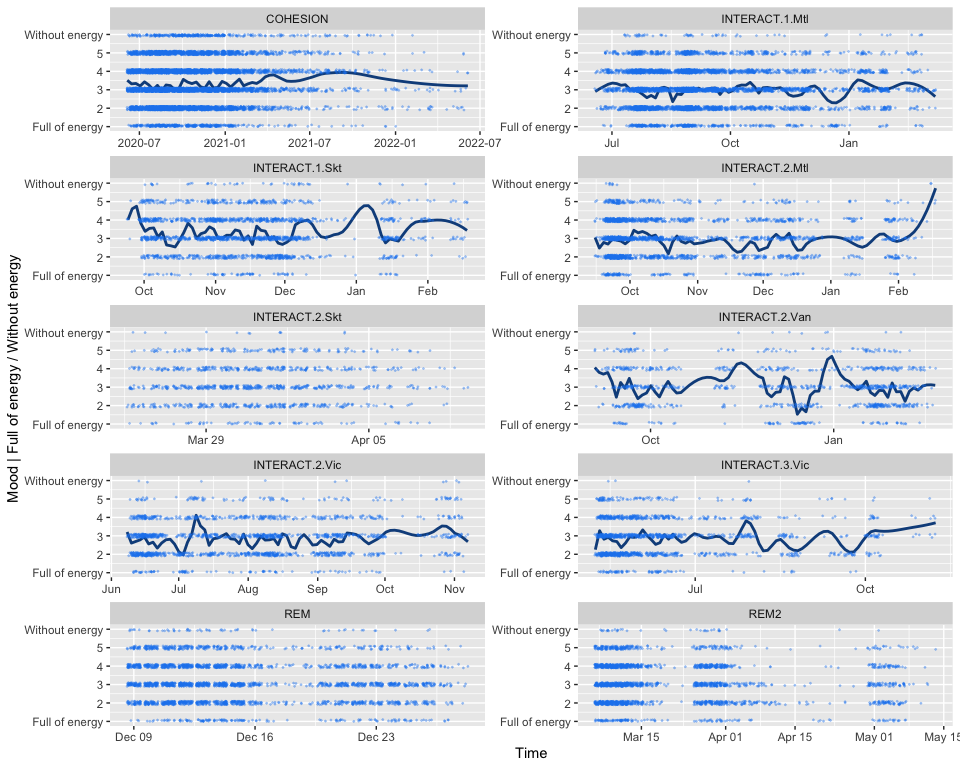
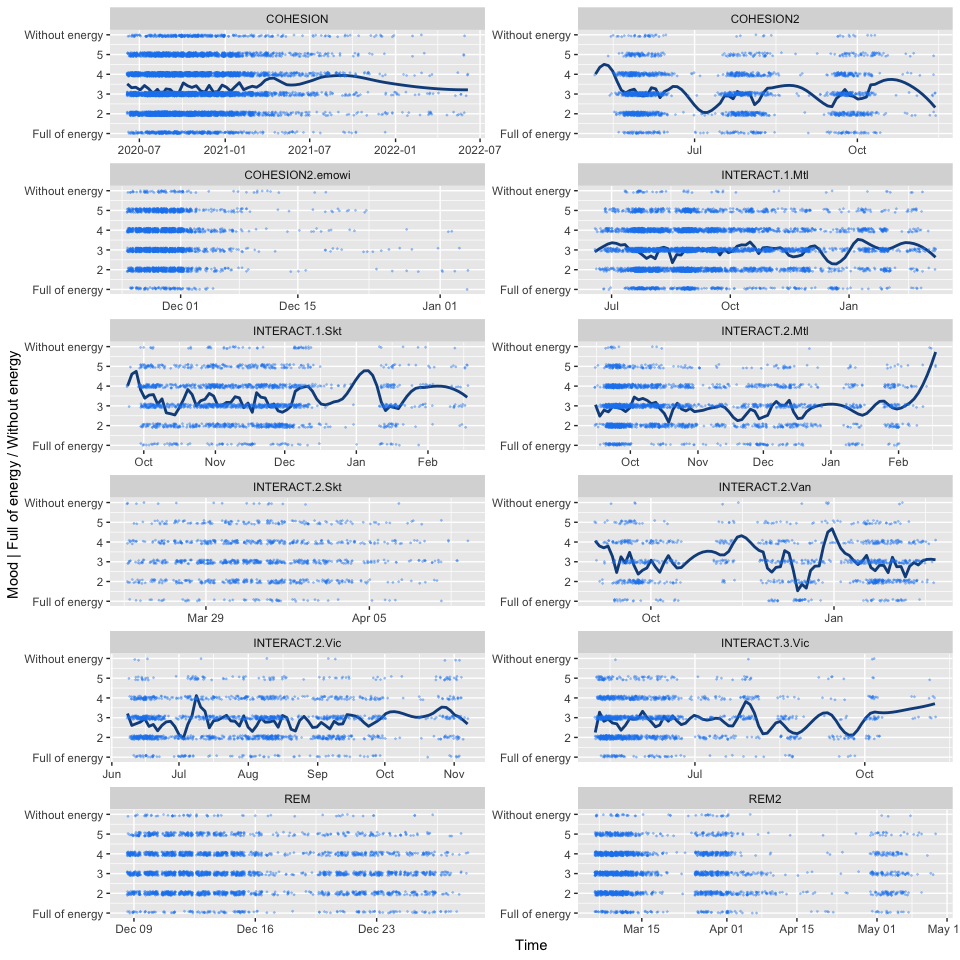
Update to EMA primer, commit #21cc594

diff --git a/EMA_preanalyses.html b/EMA_preanalyses.html
@@ -260,7 +260,7 @@ div.tocify {
 
 <h1 class="title toc-ignore">EMA | mood pre-analysis</h1>
 <h4 class="author">B. Thierry, Spherelab</h4>
-<h4 class="date">09 January, 2023</h4>
+<h4 class="date">13 January, 2023</h4>
 
 </div>
 
@@ -313,6 +313,36 @@ cohesion_ema &lt;- read_csv(&quot;data/COHESION/cohesion_ema.csv&quot;, show_col
   transmute(study = &#39;COHESION&#39;,
             pid = as.character(participant_id),
             locale = locale,
+            scheduled_time = scheduled_time,
+            issued_time = issued_time,
+            response_time = response_time,
+            latency = latency,
+            duration = duration,
+            lat = lat,
+            lng = lng,
+            across(matches(&#39;mood_(a|b|c|d|e|f|who)$&#39;), as.factor)) %&gt;%
+  mutate(across(matches(&#39;mood_(a|b|c|d|e|f|who)$&#39;), ~na_if(., -7))) %&gt;%
+  drop_na(matches(&#39;mood_(a|b|c|d|e|f|who)$&#39;))
+
+# COHESION wave 2
+cohesion_ema2 &lt;- read_csv(&quot;data/COHESION/cohesion_ema_w2.csv&quot;, show_col_types = FALSE) %&gt;%
+  transmute(study = &#39;COHESION2&#39;,
+            pid = as.character(participant_id),
+            scheduled_time = scheduled_time,
+            issued_time = issued_time,
+            response_time = response_time,
+            latency = latency,
+            duration = duration,
+            lat = lat,
+            lng = lng,
+            across(matches(&#39;mood_(a|b|c|d|e|f|who)$&#39;), as.factor)) %&gt;%
+  mutate(across(matches(&#39;mood_(a|b|c|d|e|f|who)$&#39;), ~na_if(., -7))) %&gt;%
+  drop_na(matches(&#39;mood_(a|b|c|d|e|f|who)$&#39;))
+
+# COHESION wave 2 EMOWI
+cohesion_ema2e &lt;- read_csv(&quot;data/COHESION/cohesion_ema_w2_emowi.csv&quot;, show_col_types = FALSE) %&gt;%
+  transmute(study = &#39;COHESION2.emowi&#39;,
+            pid = as.character(participant_id),
             scheduled_time = scheduled_time,
             issued_time = issued_time,
             response_time = response_time,
@@ -553,6 +583,8 @@ interact_vic3 &lt;- read_csv(&quot;data/INTERACT/ema_w3_survey_vic_1655.csv&quot
 ## • `` -&gt; `...10`</code></pre>
 <p>Merge and clean…</p>
 <pre class="r"><code>ema_full &lt;- bind_rows(cohesion_ema,
+                      cohesion_ema2,
+                      cohesion_ema2e,
                       rem_ema,
                       rem_ema2,
                       interact_mtl1, interact_skt1,
@@ -571,7 +603,7 @@ tz_lut &lt;- ema_full %&gt;%
   summarise(n = n(),
             mean_lat = mean(lat, na.rm = T),
             mean_lng = mean(lng, na.rm = T)) %&gt;%
-  inner_join(data.frame(tz_code = c(&quot;ADT&quot;, &quot;AEDT&quot;, &quot;AEST&quot;, &quot;AST&quot;, &quot;CDT&quot;, &quot;CEST&quot;, &quot;CET&quot;, &quot;CST&quot;, &quot;EDT&quot;, &quot;EET&quot;, &quot;EST&quot;, &quot;MDT&quot;, &quot;MST&quot;, &quot;NDT&quot;, &quot;NST&quot;, &quot;PDT&quot;, &quot;PST&quot;),
+  inner_join(data.frame(tz_code = c(&quot;ADT&quot;, &quot;AEDT&quot;, &quot;AEST&quot;, &quot;AST&quot;, &quot;CDT&quot;, &quot;CEST&quot;, &quot;CET&quot;, &quot;CST&quot;, &quot;EDT&quot;, &quot;EET&quot;, &quot;EST&quot;, &quot;GMT&quot;, &quot;IST&quot;, &quot;MDT&quot;, &quot;MST&quot;, &quot;NDT&quot;, &quot;NST&quot;, &quot;PDT&quot;, &quot;PST&quot;),
                         tz_name = c(&quot;Canada/Atlantic&quot;, # ADT
                                     &quot;Australia/Victoria&quot;, # AEDT
                                     &quot;Australia/Victoria&quot;, # AEST
@@ -583,6 +615,8 @@ tz_lut &lt;- ema_full %&gt;%
                                     &quot;Canada/Eastern&quot;, # EDT
                                     &quot;Europe/Athens&quot;, # EET
                                     &quot;Canada/Eastern&quot;, # EST
+                                    &quot;Greenwicth Mean Time&quot;, # GMT
+                                    &quot;Indian Standard Time&quot;, # IST
                                     &quot;Canada/Mountain&quot;, # MDT
                                     &quot;Canada/Mountain&quot;, # MST
                                     &quot;Canada/Newfoundland&quot;, # NDT
@@ -602,6 +636,8 @@ tz_lut &lt;- ema_full %&gt;%
                                     &quot;-0400&quot;, # EDT
                                     &quot;+0200&quot;, # EET
                                     &quot;-0500&quot;, # EST
+                                    &quot;-0000&quot;, # GMT
+                                    &quot;+0530&quot;, # IST
                                     &quot;-0600&quot;, # MDT
                                     &quot;-0700&quot;, # MST
                                     &quot;-0230&quot;, # NDT
@@ -623,12 +659,77 @@ ema_full &lt;- ema_full %&gt;%
          issued_time = ymd_hms(paste(substr(issued_time, 1, 10+1+8), tz_shift), tz=&quot;UTC&quot;),
          response_time = ymd_hms(paste(substr(response_time, 1, 10+1+8), tz_shift), tz=&quot;UTC&quot;)) %&gt;%
   select(!tz_shift)</code></pre>
+<pre><code>## Warning: 1 failed to parse.
+
+## Warning: 1 failed to parse.</code></pre>
 </div>
 <div id="participants-personal-data" class="section level2" number="2.2">
 <h2><span class="header-section-number">2.2</span> Participants’ personal data</h2>
 <p>Includes recoding/harmonizing the various data.</p>
 <pre class="r"><code>cohesion_lut &lt;- read_csv(&quot;data/COHESION/cohesion_ema_user.csv&quot;, show_col_types = FALSE) %&gt;%
   transmute(study = &quot;COHESION&quot;,
+            pid = as.character(participant_id),
+            prov = province,
+            postal_code = str_replace(postal_code, &quot; &quot;, &quot;&quot;),
+            age = age,
+            gender = case_when(gender == &quot;Man&quot; ~ &quot;Man&quot;,
+                               gender == &quot;Woman&quot; ~ &quot;Woman&quot;,
+                               TRUE ~ &quot;Other&quot;),
+            educ = case_when(education == &quot;Primary/Elementary School&quot; ~ &quot;Primary/Secondary School&quot;,
+                             education == &quot;Secondary School&quot; ~ &quot;Primary/Secondary School&quot;,
+                             education == &quot;Trade/Technical School or College Diploma&quot; ~ &quot;Trade/Technical School or College Diploma&quot;,
+                             education == &quot;University Degree&quot; ~ &quot;University Degree and higher&quot;,
+                             education == &quot;Graduate Degree&quot; ~ &quot;University Degree and higher&quot;,
+                             education == &quot;Post-Graduate Degree&quot; ~ &quot;University Degree and higher&quot;,
+                             TRUE ~ &quot;Other&quot;),
+            ethnic_group = case_when(ethnic_group == &quot;White&quot; ~ &quot;White&quot;,
+                                     TRUE ~ &quot;Other&quot;),
+            income = case_when(income_pre_covid == &quot;No income&quot; ~ &quot;$0 to $19,999&quot;,
+                               income_pre_covid == &quot;$1 to $9,999&quot; ~ &quot;$0 to $19,999&quot;,
+                               income_pre_covid == &quot;$10,000 to $14,999&quot; ~ &quot;$0 to $19,999&quot;,
+                               income_pre_covid == &quot;$15,000 to $19,999&quot; ~ &quot;$0 to $19,999&quot;,
+                               income_pre_covid == &quot;$20,000 to $29,999&quot; ~ &quot;$20,000 to $49,999&quot;,
+                               income_pre_covid == &quot;$30,000 to $39,999&quot; ~ &quot;$20,000 to $49,999&quot;,
+                               income_pre_covid == &quot;$40,000 to $49,999&quot; ~ &quot;$20,000 to $49,999&quot;,
+                               income_pre_covid == &quot;$50,000 to $99,999&quot; ~ &quot;$50,000 to $99,999&quot;,
+                               income_pre_covid == &quot;$100,000 to $149,999&quot; ~ &quot;$100,000 to $149,999&quot;,
+                               income_pre_covid == &quot;$150,000 to $199,999&quot; ~ &quot;$150,000 to $199,999&quot;,
+                               income_pre_covid == &quot;$200,000 or more&quot; ~ &quot;$200,000 or more&quot;,
+                               TRUE ~ &quot;I don’t know/Prefer not to answer&quot;))
+
+cohesion2_lut &lt;- read_csv(&quot;data/COHESION/cohesion_ema_user_w2.csv&quot;, show_col_types = FALSE) %&gt;%
+  transmute(study = &quot;COHESION2&quot;,
+            pid = as.character(participant_id),
+            prov = province,
+            postal_code = str_replace(postal_code, &quot; &quot;, &quot;&quot;),
+            age = age,
+            gender = case_when(gender == &quot;Man&quot; ~ &quot;Man&quot;,
+                               gender == &quot;Woman&quot; ~ &quot;Woman&quot;,
+                               TRUE ~ &quot;Other&quot;),
+            educ = case_when(education == &quot;Primary/Elementary School&quot; ~ &quot;Primary/Secondary School&quot;,
+                             education == &quot;Secondary School&quot; ~ &quot;Primary/Secondary School&quot;,
+                             education == &quot;Trade/Technical School or College Diploma&quot; ~ &quot;Trade/Technical School or College Diploma&quot;,
+                             education == &quot;University Degree&quot; ~ &quot;University Degree and higher&quot;,
+                             education == &quot;Graduate Degree&quot; ~ &quot;University Degree and higher&quot;,
+                             education == &quot;Post-Graduate Degree&quot; ~ &quot;University Degree and higher&quot;,
+                             TRUE ~ &quot;Other&quot;),
+            ethnic_group = case_when(ethnic_group == &quot;White&quot; ~ &quot;White&quot;,
+                                     TRUE ~ &quot;Other&quot;),
+            income = case_when(income_pre_covid == &quot;No income&quot; ~ &quot;$0 to $19,999&quot;,
+                               income_pre_covid == &quot;$1 to $9,999&quot; ~ &quot;$0 to $19,999&quot;,
+                               income_pre_covid == &quot;$10,000 to $14,999&quot; ~ &quot;$0 to $19,999&quot;,
+                               income_pre_covid == &quot;$15,000 to $19,999&quot; ~ &quot;$0 to $19,999&quot;,
+                               income_pre_covid == &quot;$20,000 to $29,999&quot; ~ &quot;$20,000 to $49,999&quot;,
+                               income_pre_covid == &quot;$30,000 to $39,999&quot; ~ &quot;$20,000 to $49,999&quot;,
+                               income_pre_covid == &quot;$40,000 to $49,999&quot; ~ &quot;$20,000 to $49,999&quot;,
+                               income_pre_covid == &quot;$50,000 to $99,999&quot; ~ &quot;$50,000 to $99,999&quot;,
+                               income_pre_covid == &quot;$100,000 to $149,999&quot; ~ &quot;$100,000 to $149,999&quot;,
+                               income_pre_covid == &quot;$150,000 to $199,999&quot; ~ &quot;$150,000 to $199,999&quot;,
+                               income_pre_covid == &quot;$200,000 or more&quot; ~ &quot;$200,000 or more&quot;,
+                               TRUE ~ &quot;I don’t know/Prefer not to answer&quot;))
+
+cohesion2e_lut &lt;- read_csv(&quot;data/COHESION/cohesion_ema_user_w2_emowi.csv&quot;, show_col_types = FALSE) %&gt;%
+  transmute(study = &quot;COHESION2.emowi&quot;,
             pid = as.character(participant_id),
             prov = province,
             postal_code = str_replace(postal_code, &quot; &quot;, &quot;&quot;),
@@ -736,7 +837,7 @@ rem_lut &lt;- read_csv(&quot;data/REM/w1.FINAL_WEIGHTED_24May22 - Copy.csv&quot;
             income = INCOME) # Income cannot be merged with INTERACT and COHESION categories, keep them as-is.</code></pre>
 <pre><code>## Warning: One or more parsing issues, see `problems()` for details</code></pre>
 <pre class="r"><code># Combine LUTs
-pid_lut &lt;- bind_rows(cohesion_lut, interact_lut, rem_lut, rem2_lut)</code></pre>
+pid_lut &lt;- bind_rows(cohesion_lut, cohesion2_lut, cohesion2e_lut, interact_lut, rem_lut, rem2_lut)</code></pre>
 </div>
 <div id="full-ema-dataset-w-participants-data" class="section level2" number="2.3">
 <h2><span class="header-section-number">2.3</span> Full EMA dataset w/ participants’ data</h2>
@@ -892,7 +993,7 @@ ema_full %&gt;% st_buffer(units::set_units(100, m)) %&gt;%
 <pre><code>## Warning in CPL_write_ogr(obj, dsn, layer, driver,
 ## as.character(dataset_options), : GDAL Message 6: dataset PG:dbname=xema_primer
 ## does not support layer creation option append</code></pre>
-<pre><code>## Writing 28781 features with 3 fields and geometry type Polygon.</code></pre>
+<pre><code>## Writing 33775 features with 3 fields and geometry type Polygon.</code></pre>
 <pre class="sql"><code>select study, pid, scheduled_time,
     sum(coalesce(rd_length, 0)) / st_area(wkb_geometry::geography) rd_density
 from (
@@ -1101,8 +1202,8 @@ ema_full %&gt;%
             `N obs (sd)` = round(sd(n), 1),
             `N obs/day (avg)` = round(mean(avg_obs_day), 1),
             `N obs/day (sd)` = round(sd(avg_obs_day), 1),
-            `Span days (avg)` = round(mean(span_days), 1),
-            `Span days (sd)` = round(sd(span_days), 1),
+            `Span days (avg)` = round(mean(span_days, na.rm=TRUE), 1),
+            `Span days (sd)` = round(sd(span_days, na.rm=TRUE), 1),
             `Age (avg)` = round(mean(age, na.rm=TRUE), 1),
             `Age (sd)` = round(sd(age, na.rm=TRUE), 1),
             `N Man` = sum(gender_man, na.rm=TRUE),
@@ -1110,7 +1211,7 @@ ema_full %&gt;%
 dstats</code></pre>
 <div data-pagedtable="false">
 <script data-pagedtable-source type="application/json">
-{"columns":[{"label":["study"],"name":[1],"type":["chr"],"align":["left"]},{"label":["N Pid"],"name":[2],"type":["int"],"align":["right"]},{"label":["N obs (avg)"],"name":[3],"type":["dbl"],"align":["right"]},{"label":["N obs (sd)"],"name":[4],"type":["dbl"],"align":["right"]},{"label":["N obs/day (avg)"],"name":[5],"type":["dbl"],"align":["right"]},{"label":["N obs/day (sd)"],"name":[6],"type":["dbl"],"align":["right"]},{"label":["Span days (avg)"],"name":[7],"type":["dbl"],"align":["right"]},{"label":["Span days (sd)"],"name":[8],"type":["dbl"],"align":["right"]},{"label":["Age (avg)"],"name":[9],"type":["dbl"],"align":["right"]},{"label":["Age (sd)"],"name":[10],"type":["dbl"],"align":["right"]},{"label":["N Man"],"name":[11],"type":["dbl"],"align":["right"]},{"label":["N Woman"],"name":[12],"type":["dbl"],"align":["right"]}],"data":[{"1":"COHESION","2":"367","3":"24.0","4":"22.1","5":"1.1","6":"0.5","7":"162.6","8":"169.5","9":"45.8","10":"15.1","11":"89","12":"265"},{"1":"INTERACT.1.Mtl","2":"467","3":"11.6","4":"5.9","5":"1.9","6":"0.6","7":"5.4","8":"3.4","9":"42.5","10":"14.0","11":"172","12":"285"},{"1":"INTERACT.1.Skt","2":"137","3":"13.5","4":"7.3","5":"1.8","6":"0.5","7":"6.0","8":"2.4","9":"33.7","10":"12.2","11":"36","12":"99"},{"1":"INTERACT.2.Mtl","2":"160","3":"14.3","4":"5.4","5":"2.2","6":"0.6","7":"5.8","8":"1.4","9":"43.8","10":"13.7","11":"63","12":"91"},{"1":"INTERACT.2.Skt","2":"78","3":"14.2","4":"5.5","5":"2.0","6":"0.5","7":"5.7","8":"1.4","9":"37.4","10":"12.1","11":"24","12":"50"},{"1":"INTERACT.2.Van","2":"82","3":"12.7","4":"6.1","5":"1.9","6":"0.5","7":"5.6","8":"1.5","9":"50.8","10":"14.1","11":"27","12":"53"},{"1":"INTERACT.2.Vic","2":"129","3":"12.7","4":"5.6","5":"1.9","6":"0.4","7":"5.6","8":"1.6","9":"42.9","10":"12.7","11":"61","12":"67"},{"1":"INTERACT.3.Vic","2":"112","3":"12.9","4":"6.0","5":"1.9","6":"0.5","7":"5.4","8":"1.7","9":"NaN","10":"NA","11":"0","12":"0"},{"1":"REM","2":"262","3":"11.0","4":"6.1","5":"1.9","6":"0.6","7":"4.9","8":"2.0","9":"39.0","10":"12.4","11":"139","12":"119"},{"1":"REM2","2":"191","3":"12.8","4":"5.9","5":"2.1","6":"0.6","7":"5.5","8":"1.7","9":"40.7","10":"12.4","11":"0","12":"0"}],"options":{"columns":{"min":{},"max":[10]},"rows":{"min":[10],"max":[10]},"pages":{}}}
+{"columns":[{"label":["study"],"name":[1],"type":["chr"],"align":["left"]},{"label":["N Pid"],"name":[2],"type":["int"],"align":["right"]},{"label":["N obs (avg)"],"name":[3],"type":["dbl"],"align":["right"]},{"label":["N obs (sd)"],"name":[4],"type":["dbl"],"align":["right"]},{"label":["N obs/day (avg)"],"name":[5],"type":["dbl"],"align":["right"]},{"label":["N obs/day (sd)"],"name":[6],"type":["dbl"],"align":["right"]},{"label":["Span days (avg)"],"name":[7],"type":["dbl"],"align":["right"]},{"label":["Span days (sd)"],"name":[8],"type":["dbl"],"align":["right"]},{"label":["Age (avg)"],"name":[9],"type":["dbl"],"align":["right"]},{"label":["Age (sd)"],"name":[10],"type":["dbl"],"align":["right"]},{"label":["N Man"],"name":[11],"type":["dbl"],"align":["right"]},{"label":["N Woman"],"name":[12],"type":["dbl"],"align":["right"]}],"data":[{"1":"COHESION","2":"367","3":"24.0","4":"22.1","5":"1.1","6":"0.5","7":"162.6","8":"169.5","9":"45.8","10":"15.1","11":"89","12":"265"},{"1":"COHESION2","2":"197","3":"11.1","4":"9.0","5":"1.0","6":"0.0","7":"66.7","8":"59.4","9":"47.1","10":"16.0","11":"55","12":"121"},{"1":"COHESION2.emowi","2":"233","3":"12.0","4":"5.6","5":"2.0","6":"0.6","7":"5.1","8":"1.7","9":"47.4","10":"14.9","11":"59","12":"153"},{"1":"INTERACT.1.Mtl","2":"467","3":"11.6","4":"5.9","5":"1.9","6":"0.6","7":"5.4","8":"3.4","9":"42.5","10":"14.0","11":"172","12":"285"},{"1":"INTERACT.1.Skt","2":"137","3":"13.5","4":"7.3","5":"1.8","6":"0.5","7":"6.0","8":"2.4","9":"33.7","10":"12.2","11":"36","12":"99"},{"1":"INTERACT.2.Mtl","2":"160","3":"14.3","4":"5.4","5":"2.2","6":"0.6","7":"5.8","8":"1.4","9":"43.8","10":"13.7","11":"63","12":"91"},{"1":"INTERACT.2.Skt","2":"78","3":"14.2","4":"5.5","5":"2.0","6":"0.5","7":"5.7","8":"1.4","9":"37.4","10":"12.1","11":"24","12":"50"},{"1":"INTERACT.2.Van","2":"82","3":"12.7","4":"6.1","5":"1.9","6":"0.5","7":"5.6","8":"1.5","9":"50.8","10":"14.1","11":"27","12":"53"},{"1":"INTERACT.2.Vic","2":"129","3":"12.7","4":"5.6","5":"1.9","6":"0.4","7":"5.6","8":"1.6","9":"42.9","10":"12.7","11":"61","12":"67"},{"1":"INTERACT.3.Vic","2":"112","3":"12.9","4":"6.0","5":"1.9","6":"0.5","7":"5.4","8":"1.7","9":"NaN","10":"NA","11":"0","12":"0"},{"1":"REM","2":"262","3":"11.0","4":"6.1","5":"1.9","6":"0.6","7":"4.9","8":"2.0","9":"39.0","10":"12.4","11":"139","12":"119"},{"1":"REM2","2":"191","3":"12.8","4":"5.9","5":"2.1","6":"0.6","7":"5.5","8":"1.7","9":"40.7","10":"12.4","11":"0","12":"0"}],"options":{"columns":{"min":{},"max":[10]},"rows":{"min":[10],"max":[10]},"pages":{}}}
   </script>
 </div>
 </div>
@@ -1259,7 +1360,7 @@ p + facet_wrap(vars(study), scales = &quot;free&quot;, ncol=2)</code></pre>
 <h2><span class="header-section-number">4.3</span> Environmental exposure</h2>
 <div id="missing-data" class="section level3" number="4.3.1">
 <h3><span class="header-section-number">4.3.1</span> Missing data</h3>
-<p>All environmental exposure metrics require a valid location to be evaluated. In the dataset, among the 28929 rows, 2997 have no coordinates. Among the remaining 25932 rows, only 13649 EMA responses fall within the CMM boundary and get park distance and canopy metrics.</p>
+<p>All environmental exposure metrics require a valid location to be evaluated. In the dataset, among the 33923 rows, 4277 have no coordinates. Among the remaining 29646 rows, only 14190 EMA responses fall within the CMM boundary and get park distance and canopy metrics.</p>
 <table>
 <colgroup>
 <col width="33%" />
@@ -1276,27 +1377,27 @@ p + facet_wrap(vars(study), scales = &quot;free&quot;, ncol=2)</code></pre>
 <tbody>
 <tr class="odd">
 <td align="left">Total number of responses</td>
-<td align="left">28929</td>
+<td align="left">33923</td>
 <td align="left"></td>
 </tr>
 <tr class="even">
 <td align="left">Useable location data</td>
-<td align="left">25932</td>
-<td align="left">2997 rows have no coordinates coordinates along their EMA responses</td>
+<td align="left">29646</td>
+<td align="left">4277 rows have no coordinates coordinates along their EMA responses</td>
 </tr>
 <tr class="odd">
 <td align="left">Canada-wide environmental data (<em>i.e.</em> <code>env.rd_density</code> and Pampalon deprivation metrics)</td>
-<td align="left">25932</td>
+<td align="left">29646</td>
 <td align="left">Some <NA> values might exist in the Pampalon metrics, which are due to EMA responses being located in area where no data is available (parks, Indian reserves, etc.)</td>
 </tr>
 <tr class="even">
 <td align="left">CMA bound environmental data (<em>i.e.</em> <code>env.gentrified</code>)</td>
-<td align="left">23399</td>
+<td align="left">26093</td>
 <td align="left">Gentrification status is computed at the Census tract level, which is only available for Census Metropolitan Areas</td>
 </tr>
 <tr class="odd">
 <td align="left">CMM bound environmental data (<em>i.e.</em> <code>env.closest_park</code> and <code>env.canopy</code>)</td>
-<td align="left">13649</td>
+<td align="left">14190</td>
 <td align="left">Parks and canopy datasets produced by the <em><a href="https://cmm.qc.ca">Communauté métropolitaine de Montréal</a></em> were used to get a better quality data, at the cost of dropping all not Montréal centered EMA responses for those two environmental metrics; data layers of lower quality could be used to get a Canada-wide cobverage</td>
 </tr>
 </tbody>
@@ -1308,11 +1409,11 @@ p + facet_wrap(vars(study), scales = &quot;free&quot;, ncol=2)</code></pre>
   geom_histogram(aes(env.closest_park), bins = 50) +
   labs(title = &quot;Distance to closest park from EMA responses&quot;) +
   xlab(&quot;Distance to closest park (m)&quot;)</code></pre>
-<pre><code>## Warning: Removed 15280 rows containing non-finite values (stat_bin).</code></pre>
+<pre><code>## Warning: Removed 19733 rows containing non-finite values (stat_bin).</code></pre>
 <p><img src="EMA_preanalyses_files/figure-html/unnamed-chunk-21-1.png" /><!-- --></p>
 <pre class="r"><code>summary(ema_full$env.closest_park)</code></pre>
 <pre><code>##    Min. 1st Qu.  Median    Mean 3rd Qu.    Max.    NA&#39;s 
-##    0.00   94.17  170.23  218.25  293.30 7295.58   15280</code></pre>
+##    0.00   93.78  169.41  217.72  293.37 7295.58   19733</code></pre>
 </div>
 <div id="canopy-1" class="section level3" number="4.3.3">
 <h3><span class="header-section-number">4.3.3</span> Canopy</h3>
@@ -1323,7 +1424,7 @@ p + facet_wrap(vars(study), scales = &quot;free&quot;, ncol=2)</code></pre>
 <p><img src="EMA_preanalyses_files/figure-html/unnamed-chunk-22-1.png" /><!-- --></p>
 <pre class="r"><code>summary(ema_full$env.canopy)</code></pre>
 <pre><code>##    Aquatique  Minéral bas Minéral haut  Végétal bas Végétal haut         NA&#39;s 
-##           10         4563         5356         1461         2259        15280</code></pre>
+##           10         4707         5551         1572         2350        19733</code></pre>
 </div>
 <div id="road-density" class="section level3" number="4.3.4">
 <h3><span class="header-section-number">4.3.4</span> Road density</h3>
@@ -1332,7 +1433,7 @@ p + facet_wrap(vars(study), scales = &quot;free&quot;, ncol=2)</code></pre>
   labs(title = &quot;Major raod density around EMA responses&quot;) +
   xlab(expression(paste(&quot;Road density within 100m buffer (&quot;,m/m^2, &quot;)&quot;)))</code></pre>
 <pre><code>## `stat_bin()` using `bins = 30`. Pick better value with `binwidth`.</code></pre>
-<pre><code>## Warning: Removed 2997 rows containing non-finite values (stat_bin).</code></pre>
+<pre><code>## Warning: Removed 4277 rows containing non-finite values (stat_bin).</code></pre>
 <p><img src="EMA_preanalyses_files/figure-html/unnamed-chunk-23-1.png" /><!-- --></p>
 <pre class="r"><code>ggplot(filter(ema_full, env.rd_density &gt; 0)) +
   geom_histogram(aes(env.rd_density)) +
@@ -1342,7 +1443,7 @@ p + facet_wrap(vars(study), scales = &quot;free&quot;, ncol=2)</code></pre>
 <p><img src="EMA_preanalyses_files/figure-html/unnamed-chunk-23-2.png" /><!-- --></p>
 <pre class="r"><code>summary(ema_full$env.rd_density)</code></pre>
 <pre><code>##    Min. 1st Qu.  Median    Mean 3rd Qu.    Max.    NA&#39;s 
-##  0.0000  0.0000  0.0000  0.0009  0.0000  0.0520    2997</code></pre>
+##   0.000   0.000   0.000   0.001   0.000   0.052    4277</code></pre>
 </div>
 <div id="gentrified-neighborhood" class="section level3" number="4.3.5">
 <h3><span class="header-section-number">4.3.5</span> Gentrified neighborhood</h3>
@@ -1353,7 +1454,7 @@ p + facet_wrap(vars(study), scales = &quot;free&quot;, ncol=2)</code></pre>
 <p><img src="EMA_preanalyses_files/figure-html/unnamed-chunk-24-1.png" /><!-- --></p>
 <pre class="r"><code>summary(ema_full$env.gentrified)</code></pre>
 <pre><code>##    Mode   FALSE    TRUE    NA&#39;s 
-## logical   15499    7900    5530</code></pre>
+## logical   17595    8498    7830</code></pre>
 </div>
 <div id="pampalon-deprivation-index" class="section level3" number="4.3.6">
 <h3><span class="header-section-number">4.3.6</span> Pampalon deprivation index</h3>
@@ -1362,27 +1463,27 @@ p + facet_wrap(vars(study), scales = &quot;free&quot;, ncol=2)</code></pre>
   labs(title = &quot;DA material deprivation status of EMA responses&quot;) +
   xlab(&quot;Pampalon material score&quot;)</code></pre>
 <pre><code>## `stat_bin()` using `bins = 30`. Pick better value with `binwidth`.</code></pre>
-<pre><code>## Warning: Removed 4741 rows containing non-finite values (stat_bin).</code></pre>
+<pre><code>## Warning: Removed 6382 rows containing non-finite values (stat_bin).</code></pre>
 <p><img src="EMA_preanalyses_files/figure-html/unnamed-chunk-25-1.png" /><!-- --></p>
 <pre class="r"><code>ggplot(ema_full) +
   geom_histogram(aes(env.depriv_social)) +
   labs(title = &quot;DA social deprivation status of EMA responses&quot;) +
   xlab(&quot;Pampalon social score&quot;)</code></pre>
 <pre><code>## `stat_bin()` using `bins = 30`. Pick better value with `binwidth`.</code></pre>
-<pre><code>## Warning: Removed 4741 rows containing non-finite values (stat_bin).</code></pre>
+<pre><code>## Warning: Removed 6382 rows containing non-finite values (stat_bin).</code></pre>
 <p><img src="EMA_preanalyses_files/figure-html/unnamed-chunk-25-2.png" /><!-- --></p>
 <pre class="r"><code>ema_full %&gt;%
   as.data.frame() %&gt;%
   select(starts_with(&quot;env.depriv&quot;)) %&gt;%
   summary()</code></pre>
 <pre><code>##  env.depriv_material env.depriv_social
-##  Min.   :-0.157      Min.   :-0.132   
-##  1st Qu.:-0.046      1st Qu.: 0.002   
-##  Median :-0.017      Median : 0.034   
-##  Mean   :-0.019      Mean   : 0.028   
-##  3rd Qu.: 0.009      3rd Qu.: 0.055   
+##  Min.   :-0.162      Min.   :-0.132   
+##  1st Qu.:-0.045      1st Qu.: 0.000   
+##  Median :-0.016      Median : 0.033   
+##  Mean   :-0.018      Mean   : 0.026   
+##  3rd Qu.: 0.010      3rd Qu.: 0.054   
 ##  Max.   : 0.172      Max.   : 0.206   
-##  NA&#39;s   :4741        NA&#39;s   :4741</code></pre>
+##  NA&#39;s   :6382        NA&#39;s   :6382</code></pre>
 </div>
 </div>
 <div id="density-maps-of-responses" class="section level2" number="4.4">
@@ -1412,6 +1513,8 @@ for (s in unique(.ema_full$study)) {
 
   zlevel &lt;- switch(s,
                    &quot;COHESION&quot; = 4,
+                   &quot;COHESION2&quot; = 4,
+                   &quot;COHESION2.emowi&quot; = 4,
                    &quot;REM&quot; = 4,
                    &quot;REM2&quot; = 4,
                    &quot;INTERACT.1.Mtl&quot; = 5,
@@ -1439,30 +1542,36 @@ for (s in unique(.ema_full$study)) {
 <pre><code>## [1] &quot;Processing COHESION&quot;</code></pre>
 <pre><code>## Warning: Removed 613 rows containing missing values (geom_point).</code></pre>
 <p><img src="EMA_preanalyses_files/figure-html/unnamed-chunk-26-1.png" /><!-- --></p>
+<pre><code>## [1] &quot;Processing COHESION2&quot;</code></pre>
+<pre><code>## Warning: Removed 168 rows containing missing values (geom_point).</code></pre>
+<p><img src="EMA_preanalyses_files/figure-html/unnamed-chunk-26-2.png" /><!-- --></p>
+<pre><code>## [1] &quot;Processing COHESION2.emowi&quot;</code></pre>
+<pre><code>## Warning: Removed 1112 rows containing missing values (geom_point).</code></pre>
+<p><img src="EMA_preanalyses_files/figure-html/unnamed-chunk-26-3.png" /><!-- --></p>
 <pre><code>## [1] &quot;Processing REM&quot;</code></pre>
 <pre><code>## Warning: Removed 141 rows containing missing values (geom_point).</code></pre>
-<p><img src="EMA_preanalyses_files/figure-html/unnamed-chunk-26-2.png" /><!-- --></p>
+<p><img src="EMA_preanalyses_files/figure-html/unnamed-chunk-26-4.png" /><!-- --></p>
 <pre><code>## [1] &quot;Processing REM2&quot;</code></pre>
 <pre><code>## Warning: Removed 130 rows containing missing values (geom_point).</code></pre>
-<p><img src="EMA_preanalyses_files/figure-html/unnamed-chunk-26-3.png" /><!-- --></p>
+<p><img src="EMA_preanalyses_files/figure-html/unnamed-chunk-26-5.png" /><!-- --></p>
 <pre><code>## [1] &quot;Processing INTERACT.1.Mtl&quot;</code></pre>
 <pre><code>## Warning: Removed 225 rows containing missing values (geom_point).</code></pre>
-<p><img src="EMA_preanalyses_files/figure-html/unnamed-chunk-26-4.png" /><!-- --></p>
+<p><img src="EMA_preanalyses_files/figure-html/unnamed-chunk-26-6.png" /><!-- --></p>
 <pre><code>## [1] &quot;Processing INTERACT.1.Skt&quot;</code></pre>
 <pre><code>## Warning: Removed 40 rows containing missing values (geom_point).</code></pre>
-<p><img src="EMA_preanalyses_files/figure-html/unnamed-chunk-26-5.png" /><!-- --></p>
+<p><img src="EMA_preanalyses_files/figure-html/unnamed-chunk-26-7.png" /><!-- --></p>
 <pre><code>## [1] &quot;Processing INTERACT.2.Mtl&quot;</code></pre>
 <pre><code>## Warning: Removed 81 rows containing missing values (geom_point).</code></pre>
-<p><img src="EMA_preanalyses_files/figure-html/unnamed-chunk-26-6.png" /><!-- --></p>
+<p><img src="EMA_preanalyses_files/figure-html/unnamed-chunk-26-8.png" /><!-- --></p>
 <pre><code>## [1] &quot;Processing INTERACT.2.Skt&quot;</code></pre>
 <pre><code>## Warning: Removed 49 rows containing missing values (geom_point).</code></pre>
-<p><img src="EMA_preanalyses_files/figure-html/unnamed-chunk-26-7.png" /><!-- --></p>
+<p><img src="EMA_preanalyses_files/figure-html/unnamed-chunk-26-9.png" /><!-- --></p>
 <pre><code>## [1] &quot;Processing INTERACT.2.Van&quot;</code></pre>
 <pre><code>## Warning: Removed 36 rows containing missing values (geom_point).</code></pre>
-<p><img src="EMA_preanalyses_files/figure-html/unnamed-chunk-26-8.png" /><!-- --></p>
+<p><img src="EMA_preanalyses_files/figure-html/unnamed-chunk-26-10.png" /><!-- --></p>
 <pre><code>## [1] &quot;Processing INTERACT.3.Vic&quot;</code></pre>
 <pre><code>## Warning: Removed 43 rows containing missing values (geom_point).</code></pre>
-<p><img src="EMA_preanalyses_files/figure-html/unnamed-chunk-26-9.png" /><!-- --></p>
+<p><img src="EMA_preanalyses_files/figure-html/unnamed-chunk-26-11.png" /><!-- --></p>
 </div>
 </div>
 
